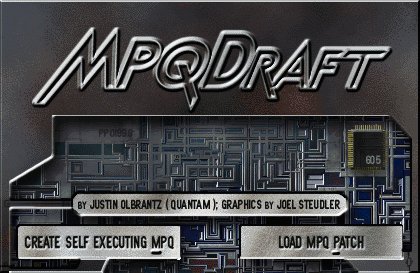
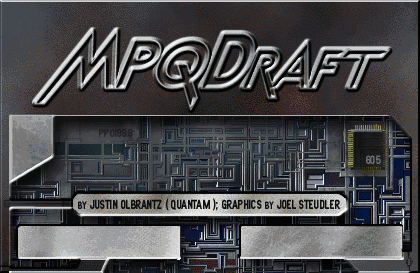
Adding language button; putting button backgrounds as part of bitmap

Changed region(s): [[0.031, 0.8205, 0.4333, 0.9377], [0.5881, 0.8205, 0.9595, 0.9377], [0.0, 0.4103, 0.1238, 0.674]]

diff --git a/src/app/gui/mainwindow.cpp b/src/app/gui/mainwindow.cpp
@@ -18,6 +18,7 @@
 #include <QFontMetrics>
 #include <QMessageBox>
 #include <QKeyEvent>
+#include <QSvgRenderer>
 
 MainWindow::MainWindow(QWidget *parent)
     : QMainWindow(parent)
@@ -38,14 +39,15 @@ void MainWindow::keyPressEvent(QKeyEvent *event)
     }
 }
 
-// Renders the button caption onto a copy of the (textless) button bitmap,
-// mimicking the engraved-metal look of the original hand-drawn artwork:
-// a bold condensed uppercase caption with a soft highlight sitting just
-// beneath it. Text color flips to white for the pressed/active states,
-// matching how the original bitmaps distinguished up vs. down.
-QIcon MainWindow::createButtonIcon(const QString &imagePath, const QString &text)
+// Renders the button caption onto a transparent canvas, mimicking the
+// engraved-metal look of the original hand-drawn artwork: a bold condensed
+// uppercase caption with a soft highlight sitting just beneath it. Text
+// color flips to white for the pressed/active states, matching how the
+// original bitmaps distinguished up vs. down. The button plate itself is
+// baked into the main background image, so there is nothing to composite
+// onto here beyond the caption.
+QIcon MainWindow::createButtonIcon(const QString &text, const QSize &size)
 {
-    const QPixmap base(imagePath);
     const QString label = text.toUpper();
 
     QFont font("Arial");
@@ -53,17 +55,21 @@ QIcon MainWindow::createButtonIcon(const QString &imagePath, const QString &text
     font.setStretch(QFont::SemiCondensed);
     font.setPointSizeF(12.0);
 
-    // Shrink the caption until it fits the bitmap, so longer translations
-    // don't overflow the button.
-    const int maxTextWidth = base.width() - 12;
+    // Shrink the caption until it fits the button, so longer translations
+    // don't overflow the plate. boundingRect() (rather than horizontalAdvance())
+    // is used because it measures the actual ink extents of the glyphs, which
+    // for a bold font can overhang the advance width - horizontalAdvance()
+    // alone let long captions like the Swedish "LADDA MPQ-PATCH" clip the plate.
+    const int maxTextWidth = size.width() - 12;
     QFontMetrics metrics(font);
-    while (metrics.horizontalAdvance(label) > maxTextWidth && font.pointSizeF() > 6.0) {
+    while (metrics.boundingRect(label).width() > maxTextWidth && font.pointSizeF() > 5.0) {
         font.setPointSizeF(font.pointSizeF() - 0.5);
         metrics = QFontMetrics(font);
     }
 
     auto renderState = [&](const QColor &textColor) {
-        QPixmap pixmap = base;
+        QPixmap pixmap(size);
+        pixmap.fill(Qt::transparent);
         QPainter painter(&pixmap);
         painter.setRenderHint(QPainter::Antialiasing);
         painter.setRenderHint(QPainter::TextAntialiasing);
@@ -77,6 +83,55 @@ QIcon MainWindow::createButtonIcon(const QString &imagePath, const QString &text
 
         painter.setPen(textColor);
         painter.drawText(rect, Qt::AlignCenter, label);
+        return pixmap;
+    };
+
+    QIcon icon;
+    icon.addPixmap(renderState(QColor(14, 14, 14)), QIcon::Normal);
+    const QPixmap pressed = renderState(Qt::white);
+    icon.addPixmap(pressed, QIcon::Active);
+    icon.addPixmap(pressed, QIcon::Selected);
+    return icon;
+}
+
+// Rasterizes an SVG glyph and gives it the same engraved-metal treatment as
+// createButtonIcon: a soft light offset copy sitting beneath a dark (or, when
+// pressed, white) main copy. Used for icon-only buttons that sit directly on
+// top of a metal patch baked into the background image, so there is no
+// separate button bitmap to composite onto.
+QIcon MainWindow::createSvgButtonIcon(const QString &svgPath, int size, int bottomPadding)
+{
+    QSvgRenderer renderer(svgPath);
+    // The canvas is taller than the glyph itself so the offset highlight
+    // below it (see renderState) has room to render without being clipped.
+    QPixmap glyph(size, size + bottomPadding);
+    glyph.fill(Qt::transparent);
+    QPainter glyphPainter(&glyph);
+    glyphPainter.setRenderHint(QPainter::Antialiasing);
+    renderer.render(&glyphPainter, QRect(0, 0, size, size));
+    glyphPainter.end();
+
+    auto tint = [&](const QColor &color) {
+        QPixmap tinted(glyph.size());
+        tinted.fill(Qt::transparent);
+        QPainter painter(&tinted);
+        painter.drawPixmap(0, 0, glyph);
+        painter.setCompositionMode(QPainter::CompositionMode_SourceIn);
+        painter.fillRect(tinted.rect(), color);
+        painter.end();
+        return tinted;
+    };
+
+    auto renderState = [&](const QColor &color) {
+        QPixmap pixmap(glyph.size());
+        pixmap.fill(Qt::transparent);
+        QPainter painter(&pixmap);
+
+        // Soft engraved highlight beneath the glyph
+        painter.drawPixmap(0, 2, tint(QColor(226, 226, 226)));
+
+        painter.drawPixmap(0, 0, tint(color));
+        painter.end();
         return pixmap;
     };
 
@@ -109,8 +164,8 @@ void MainWindow::setupUI()
     sempqButton->setFlat(true);
     sempqButton->setStyleSheet("QPushButton { border: none; background: transparent; }");
 
-    // Load button image and draw its caption on top from the translations
-    QIcon sempqIcon = createButtonIcon(":/images/SEMPQButton.png", tr("Create SEMPQ"));
+    // Draw the caption from the translations; the plate itself is baked into the background
+    QIcon sempqIcon = createButtonIcon(tr("Create SEMPQ"), QSize(162, 33));
     sempqButton->setIcon(sempqIcon);
     sempqButton->setIconSize(QSize(162, 33));
 
@@ -121,13 +176,27 @@ void MainWindow::setupUI()
 
     connect(sempqButton, &QPushButton::clicked, this, &MainWindow::onSEMPQClicked);
 
+    // Language button (globe icon, sits on the metal patch above the SEMPQ button)
+    languageButton = new QPushButton(centralWidget);
+    languageButton->setGeometry(18, 122, 30, 35);
+    languageButton->setFlat(true);
+    languageButton->setStyleSheet("QPushButton { border: none; background: transparent; }");
+
+    QIcon languageIcon = createSvgButtonIcon(":/icons/globe.svg", 30, 5);
+    languageButton->setIcon(languageIcon);
+    languageButton->setIconSize(QSize(30, 35));
+
+    languageButton->setAccessibleName(tr("Select Language"));
+    languageButton->setAccessibleDescription(tr("Choose the application language"));
+    languageButton->setToolTip(tr("Select Language"));
+
     // Patch button (right button)
     patchButton = new QPushButton(centralWidget);
     patchButton->setGeometry(240, 226, 162, 33);
     patchButton->setFlat(true);
     patchButton->setStyleSheet("QPushButton { border: none; background: transparent; }");
 
-    QIcon patchIcon = createButtonIcon(":/images/PatchButton.png", tr("Load MPQ Patch"));
+    QIcon patchIcon = createButtonIcon(tr("Load MPQ Patch"), QSize(162, 33));
     patchButton->setIcon(patchIcon);
     patchButton->setIconSize(QSize(162, 33));
 

diff --git a/src/app/gui/mainwindow.h b/src/app/gui/mainwindow.h
@@ -13,6 +13,7 @@
 #include <QPushButton>
 #include <QIcon>
 #include <QString>
+#include <QSize>
 
 class MainWindow : public QMainWindow
 {
@@ -30,11 +31,13 @@ private slots:
 
 private:
     void setupUI();
-    QIcon createButtonIcon(const QString &imagePath, const QString &text);
+    QIcon createButtonIcon(const QString &text, const QSize &size);
+    QIcon createSvgButtonIcon(const QString &svgPath, int size, int bottomPadding);
 
     // UI components
     QPushButton *patchButton;
     QPushButton *sempqButton;
+    QPushButton *languageButton;
 };
 
 #endif // MAINWINDOW_H
